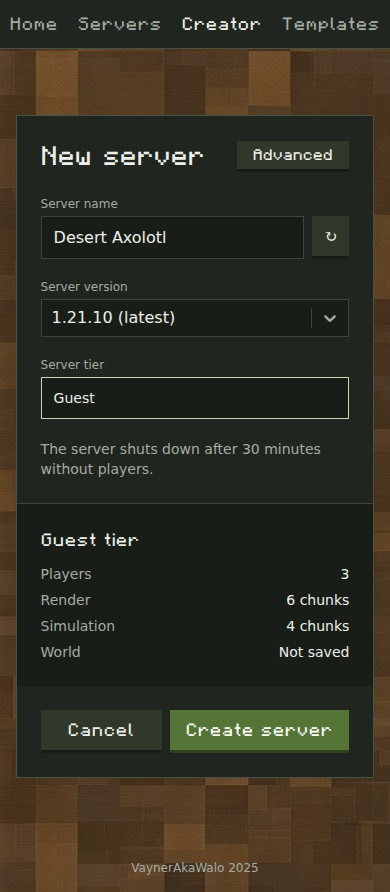
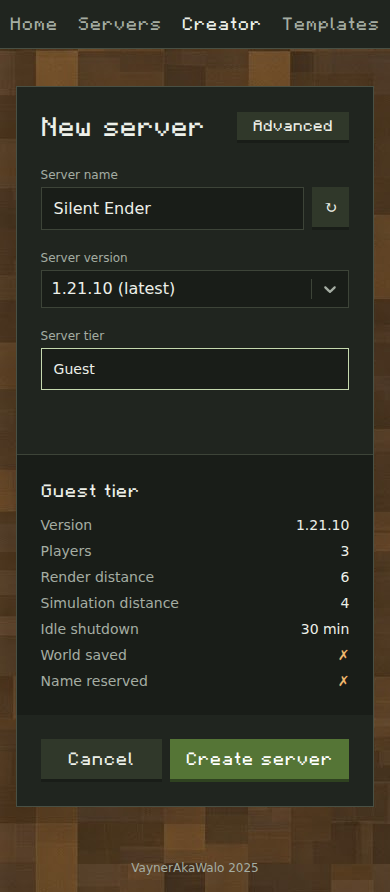
Show version, idle shutdown and name reservation in the creation summary

diff --git a/web/src/creator/ServerCreator.tsx b/web/src/creator/ServerCreator.tsx
@@ -41,6 +41,12 @@ function serverReducer(state: Server, action: ServerUpdateAction): Server {
   }
 }
 
+function Included({value}: { value: boolean }) {
+  return value
+    ? <span className="text-online" aria-label="Yes">✓</span>
+    : <span className="text-warning" aria-label="No">✗</span>
+}
+
 export function ServerCreator() {
   const catalog = useLoaderData<CatalogResponse | null>()
   const {templateName, templatePreset, templateOps} = useLocation().state || {}
@@ -185,15 +191,19 @@ export function ServerCreator() {
     const tier = catalog?.tiers.find(candidate => candidate.id === state.tier)
     if (!tier) return null
 
-    const rows: [string, string][] = [
-      ["Players", `${tier.maxPlayers}`],
-      ["Render", `${tier.viewDistance} chunks`],
-      ["Simulation", `${tier.simulationDistance} chunks`],
-      ["World", tier.persistent ? "Saved" : "Not saved"],
+    const version = isTemplated() ? `${templateName}-${templateOps.VERSION}` : state.opts.VERSION
+    const rows: [string, React.ReactNode][] = [
+      ["Version", version],
+      ["Players", tier.maxPlayers],
+      ["Render distance", tier.viewDistance],
+      ["Simulation distance", tier.simulationDistance],
+      ["Idle shutdown", "30 min"],
+      ["World saved", <Included value={tier.persistent}/>],
+      ["Name reserved", <Included value={tier.nameReserved}/>],
     ]
 
     return (
-      <aside className="flex flex-col gap-3 border-t border-edge bg-inset p-6 sm:col-start-2 sm:row-span-2 sm:row-start-1 sm:w-52 sm:border-t-0 sm:border-l" aria-labelledby="server-summary-heading">
+      <aside className="flex flex-col gap-3 border-t border-edge bg-inset p-6 sm:col-start-2 sm:row-span-2 sm:row-start-1 sm:w-60 sm:border-t-0 sm:border-l" aria-labelledby="server-summary-heading">
         <h3 id="server-summary-heading" className="font-pixel">{tier.name} tier</h3>
         <dl className="flex flex-col gap-1.5 text-sm">
           {rows.map(([label, value]) => (
@@ -258,7 +268,6 @@ export function ServerCreator() {
                inert={showAdvanced} aria-hidden={showAdvanced}>
             {basicSettings()}
             {tierSettings()}
-            <p className="text-sm text-content-muted">The server shuts down after 30 minutes without players.</p>
           </div>
 
           <div className={`flex flex-col gap-4 [grid-area:1/1] ${showAdvanced ? "" : "opacity-0"}`}

diff --git a/web/src/clients/ManagerClient.ts b/web/src/clients/ManagerClient.ts
@@ -24,7 +24,7 @@ export interface GameVersion {
 }
 
 export interface CatalogResponse {
-  tiers: { id: Tier, name: string, description: string, default: boolean, maxPlayers: number, viewDistance: number, simulationDistance: number, persistent: boolean }[],
+  tiers: { id: Tier, name: string, description: string, default: boolean, maxPlayers: number, viewDistance: number, simulationDistance: number, persistent: boolean, nameReserved: boolean }[],
   presets: { id: string, name: string, description: string, options: Opts }[],
   options: { id: string, values?: string[] }[],
   versions: Record<string, { latestRelease: string, items: GameVersion[] }>

diff --git a/internal/definition/catalog.go b/internal/definition/catalog.go
@@ -18,6 +18,7 @@ type CatalogTier struct {
 	ViewDistance       int    `json:"viewDistance"`
 	SimulationDistance int    `json:"simulationDistance"`
 	Persistent         bool   `json:"persistent"`
+	NameReserved       bool   `json:"nameReserved"`
 }
 
 type CatalogPreset struct {
@@ -58,6 +59,7 @@ func catalogTiers() []CatalogTier {
 			ViewDistance:       instance.viewDistance,
 			SimulationDistance: instance.simulationDistance,
 			Persistent:         instance.persistent,
+			NameReserved:       instance.nameReserved,
 		})
 	}
 

diff --git a/internal/definition/container_customizer.go b/internal/definition/container_customizer.go
@@ -19,6 +19,7 @@ type serverInstance struct {
 	viewDistance       int
 	simulationDistance int
 	persistent         bool
+	nameReserved       bool
 }
 
 // Game nodes have about 6.5Gi allocatable, so two small servers share a node.
@@ -37,6 +38,7 @@ var tierMapping = map[Tier]serverInstance{
 		viewDistance:       6,
 		simulationDistance: 4,
 		persistent:         false,
+		nameReserved:       false,
 	},
 }
 
